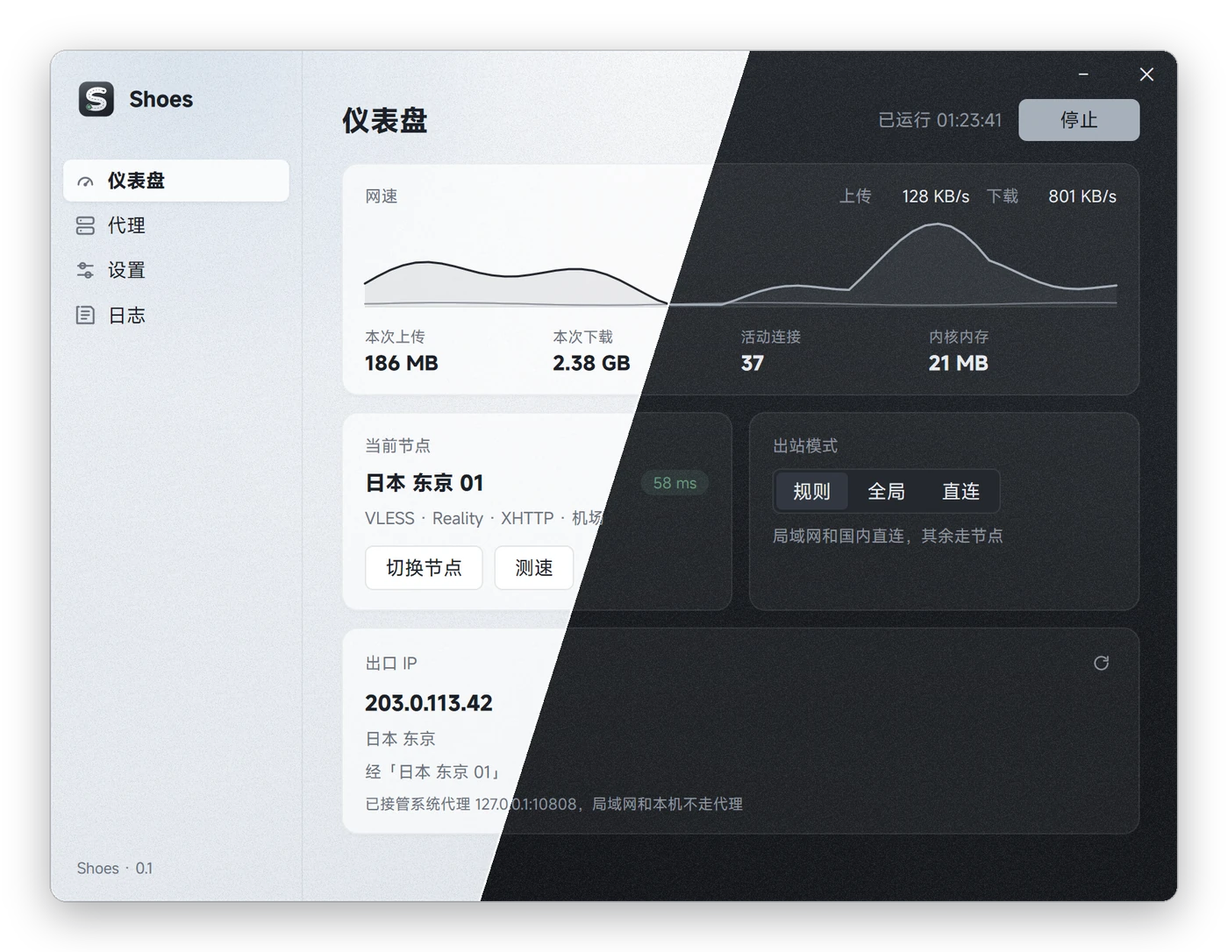
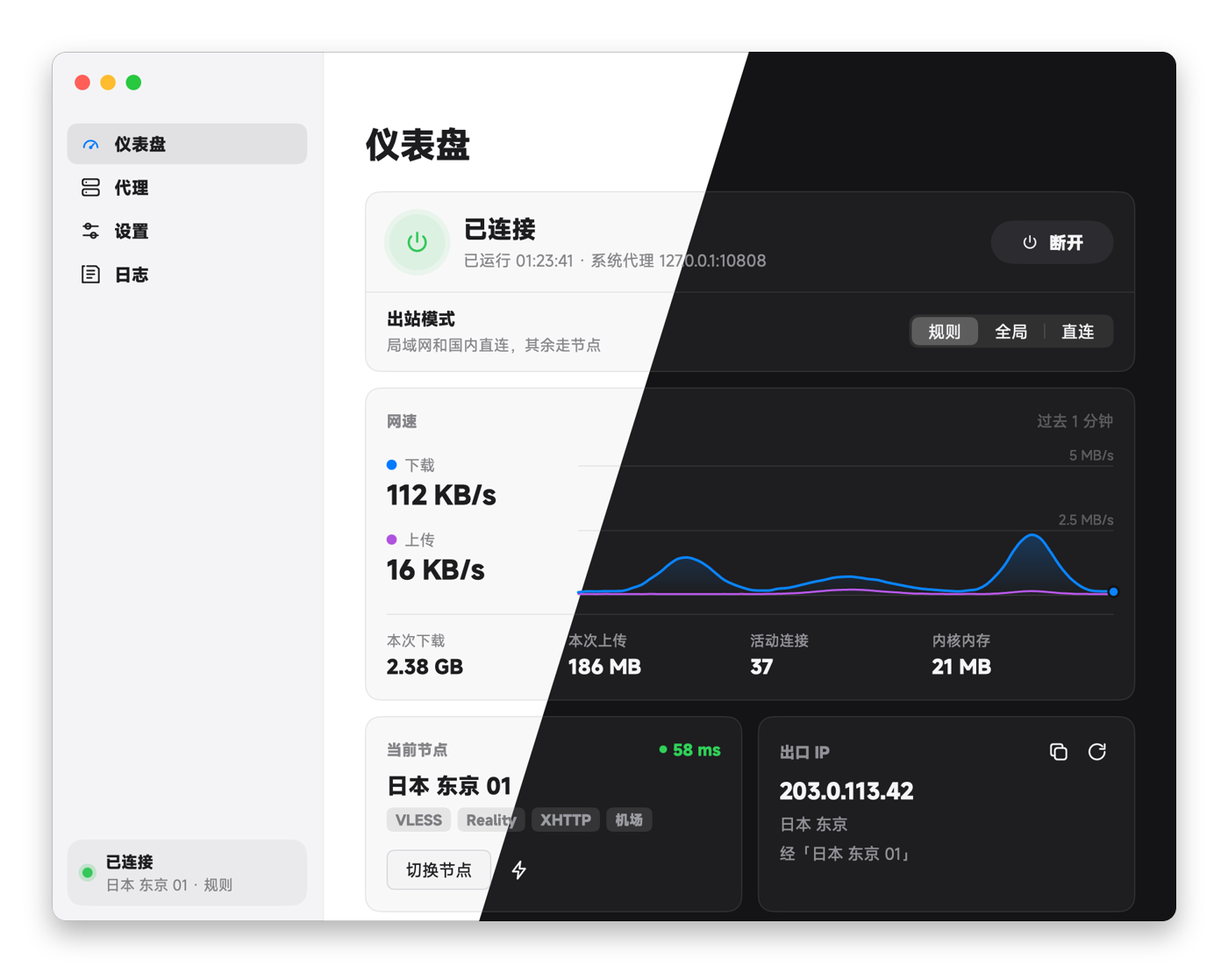
Shoes 0.4.0: the new interface
- Version 0.4.0 in mygo.json, the syso (regenerated with go-winres) and
  the subscription User-Agent (ShoesGUI/0.4).
- CHANGELOG: the 0.4.0 section; update notes now live under 设置 › 关于.
- The tray's 启动/停止 is now 连接/断开, as on the dashboard.
- README and 使用说明: the new dashboard, node list, group ⋯ menu,
  dialogs, connection records, settings groups, toasts, Esc and ⌘F on
  the log page; 已连接 instead of 运行中; screenshots redone from the
  new interface with made-up nodes (203.0.113.0/24).

diff --git a/work/import.go b/work/import.go
@@ -58,7 +58,7 @@ func parseImport(text string) importResult {
 
 // subscriptionUA 机场面板按 User-Agent 决定回什么格式，不认得的多半当 Clash 回 YAML。
 // 我们解析的是 v2rayN 那种分享链接，所以照它的样子报；有的面板只看开头是不是 v2rayN，后缀放自己的名字
-const subscriptionUA = "v2rayN/7.13.8 ShoesGUI/0.3"
+const subscriptionUA = "v2rayN/7.13.8 ShoesGUI/0.4"
 
 // configFormat 认出整份配置文件（Clash YAML、JSON），这种不是链接列表，别把里面的网址当节点
 func configFormat(text string) string {

diff --git a/work/tray.go b/work/tray.go
@@ -31,9 +31,9 @@ func (a *application) createTray() {
 	tray.OnClick(a.showWindow)
 	tray.OnRightClick(func() {
 		_, _, _, proxy := a.engine.snapshot()
-		toggle := "启动"
+		toggle := "连接"
 		if proxy {
-			toggle = "停止"
+			toggle = "断开"
 		}
 		var modeItems []*mygo.MenuItem
 		for _, m := range modes {

diff --git a/outputs/使用说明.md b/outputs/使用说明.md
@@ -4,41 +4,47 @@ Windows：双击同目录的 ShoesGUI.exe，shoes.exe 保持放在旁边。
 
 macOS（Apple 芯片）：把 ShoesGUI 拖进「应用程序」再打开，内核已经打包在 app 里。app 没有 Apple 开发者签名，第一次打开会被系统拦下：到「系统设置 › 隐私与安全性」最下面点「仍要打开」，或者在终端运行 `xattr -dr com.apple.quarantine /Applications/ShoesGUI.app`。下文的 Ctrl 快捷键在 macOS 上都是 ⌘。
 
-1. 在「代理」页粘贴导入订阅或节点链接（也可以手动添加），点一下卡片就是选中。
-2. 回到「仪表盘」点右上角「启动」，Shoes 接管系统代理；点「停止」恢复原来的设置。启动/停止只有这一个按钮。
-3. 运行中也能随时换节点、换模式、编辑和导入，不用先停。换节点时默认断开现有连接，让浏览器立刻按新节点重连；不想打断下载和通话，可以在「设置 › 连接」关掉「切换节点时断开现有连接」，这样只有新连接走新节点。
+1. 在「代理」页粘贴导入订阅或节点链接（也可以手动添加），点一下那一行就是选中。
+2. 回到「仪表盘」，点最上面那张卡片右边的「连接」，Shoes 接管系统代理；点「断开」恢复原来的设置。托盘菜单里也是同一个开关。
+3. 连着的时候也能随时换节点、换模式、编辑和导入，不用先停。换节点时默认断开现有连接，让浏览器立刻按新节点重连；不想打断下载和通话，可以在「设置 › 连接」关掉「切换节点时断开现有连接」，这样只有新连接走新节点。
 
-内核随 Shoes 一起常驻，只监听本机。没点「启动」时也能测速，也能把 127.0.0.1:10808 手动填给其他应用。改了节点、端口或内核路径，内核会在后台重启，大约 0.2 秒，系统代理保持接管。
+内核随 Shoes 一起常驻，只监听本机。没点「连接」时也能测速，也能把 127.0.0.1:10808 手动填给其他应用。改了节点、端口或内核路径，内核会在后台重启，大约 0.2 秒，系统代理保持接管。
 
 出站模式：「规则」让局域网和国内（geosite/geoip cn）直连，其余走节点；「全局」除局域网外都走节点；「直连」全部不走节点。系统代理同时绕过 localhost、127.*、10.*、172.16–31.*、192.168.* 和不带点的本地名（macOS 上写成 localhost、127.0.0.0/8、*.local、10.0.0.0/8、172.16.0.0/12、192.168.0.0/16、169.254.0.0/16）。macOS 接管时改的是每个已启用网络服务的 HTTP / HTTPS 代理，并关掉自动代理（PAC），停止后还原。
 
-仪表盘：右上角是运行时长和启动/停止；启动失败时那行红字可以点，直接跳到日志。「网速」是内核每秒报的上传、下载速度，曲线是最近 60 秒，实线下载、淡线上传；下面「本次上传/下载」从打开 Shoes 算起，经过内核的都算（直连的也算），内核重启也接着累加；「活动连接」「内核内存」仪表盘开着时每 2 秒刷新一次。「当前节点」可以测速，「切换节点」会跳到这个节点所在的分组并滚到它。「出口 IP」只在接管了系统代理时查：经本地代理端口请求 ipwho.is（不通再试 ip-api.com），和浏览器走的是同一条分流，内核重启、换节点、换模式后自动重查，右上角 ↻ 手动重查；没接管时这里直接写「未接管系统代理」，因为那时浏览器是直连的。TUN 没有放出来，shoes 内核在 Windows 上不支持，macOS 版也一样没放。
+仪表盘：最上面一张卡片写着现在连没连上、连了多久，右边是「连接 / 断开」，下面一行切出站模式；启动失败时卡片上的「点这里看日志」直接跳到运行日志。「网速」左边是这一秒的下载、上传，右边是最近 60 秒的曲线，蓝色下载、紫色上传，刻度跟着最大值走，指针放上去能看那一秒的数；下面「本次下载/上传」从打开 Shoes 算起，经过内核的都算（直连的也算），内核重启也接着累加；「活动连接」「内核内存」每秒更新。「当前节点」旁边的闪电图标测这个节点的延迟，「切换节点」弹出同一分组里按延迟排好的节点（最多十个），点一个就换，最底下一行去代理页看全部。「出口 IP」只在接管了系统代理时查：经本地代理端口请求 ipwho.is（不通再试 ip-api.com），和浏览器走的是同一条分流，内核重启、换节点、换模式后自动重查，右上角 ↻ 手动重查，旁边可以复制 IP；没接管时这里直接写「未接管系统代理」，因为那时浏览器是直连的。TUN 没有放出来，shoes 内核在 Windows 上不支持，macOS 版也一样没放。
 
-测速：「代理」页右上角的闪电图标测当前分组（搜索过滤后的那些），点一下是「真连接延迟」，右键可以选「TCPing」。「真连接延迟」和 v2rayN 的同名功能一样：另起一个只用来测速的内核，每个节点一个本地入口，经入口用同一个连接连发两次 GET https://www.google.com/generate_204，取较小的那次（第二次已经握过手，基本是一个来回），两次都成功才算通，每个节点最多 5 秒。「TCPing」也和 v2rayN 一样，只计 TCP 连上服务器端口的时间，不走代理协议，通了不代表节点能用。卡片右键「测速 ›」可以单测一个，仪表盘「当前节点」卡片的「测速」测当前节点（真连接）。两种结果共用一个显示位置，后测的覆盖先测的，结果会存下来，重开 Shoes 还在。结果跟着节点配置（地址、协议、凭证）走，不跟名字走：改了节点配置就算没测过，删掉一个同名节点也不会让另一个接手它的数字；更新订阅（包括第一次导入订阅）后这一组的结果清空，和 v2rayN 一样要重新测。500 ms 以内绿色（和 v2rayN 的分界一样），1000 ms 以内黄色，更慢或超时红色。搜索框旁边选「按延迟」就按快慢排（没测的在后，超时的最后，测速进行中顺序先不动），「用最快的」直接切到这一组里测出来最快的节点。测速不经过系统代理，不影响正在用的连接，没点「启动」也能测。
+侧栏底部一直显示连接状态和正在用的节点，哪一页都看得到，点它回到仪表盘。
 
-关闭窗口会缩到托盘，第一次关的时候会弹一条系统通知说明。左键托盘图标打开窗口，右键可启动/停止、切节点（按分组，带上次测的延迟）、切模式、退出；图标绿色表示已接管系统代理。再次双击 ShoesGUI.exe 会把已经在跑的窗口叫出来。macOS 上托盘图标在顶部菜单栏；⌘Q 或程序坞里的「退出」会真的退出，并恢复系统代理。「设置」里的改动都是即时保存的：主题（跟随系统、浅色、深色）、「开机时启动 Shoes」（登录后在托盘待命，不会自己接管代理）、「打开时自动接管系统代理」（两个都开，登录后就直接可用）；本地端口按回车或点别处就保存，不合法会在下面说原因；内核路径在「高级」里，一般会自动找到，选了文件就保存。
+测速：「代理」页右上角的闪电图标测当前分组（搜索过滤后的那些），点一下是「真连接延迟」，右键可以选「TCPing」。「真连接延迟」和 v2rayN 的同名功能一样：另起一个只用来测速的内核，每个节点一个本地入口，经入口用同一个连接连发两次 GET https://www.google.com/generate_204，取较小的那次（第二次已经握过手，基本是一个来回），两次都成功才算通，每个节点最多 5 秒。「TCPing」也和 v2rayN 一样，只计 TCP 连上服务器端口的时间，不走代理协议，通了不代表节点能用。节点右键或「⋯」里的「测速 ›」可以单测一个，仪表盘「当前节点」旁边的闪电图标测当前节点（真连接）。测速进行中，延迟那一格是一明一暗的灰条。两种结果共用一个显示位置，后测的覆盖先测的，结果会存下来，重开 Shoes 还在。结果跟着节点配置（地址、协议、凭证）走，不跟名字走：改了节点配置就算没测过，删掉一个同名节点也不会让另一个接手它的数字；更新订阅（包括第一次导入订阅）后这一组的结果清空，和 v2rayN 一样要重新测。500 ms 以内绿色（和 v2rayN 的分界一样），1000 ms 以内橙色，更慢或超时红色。搜索框旁边选「按延迟」就按快慢排（没测的在后，超时的最后，测速进行中顺序先不动），「用最快的」直接切到这一组里测出来最快的节点。测速不经过系统代理，不影响正在用的连接，没点「连接」也能测。
 
-更新：「设置 › 更新」可以检查新版本，默认打开时和之后每 12 小时也会自己查一次（只提示，不会自己装，可以关掉）。有新版本时侧栏底部会提示，点「更新并重启」就下载、校验签名、替换，再自己重新打开；更新前接管着系统代理的话，重新打开后接着接管。下载经 Shoes 自己的内核走，节点不通再直连；通常只下载变了的部分，内核也一起更新。要能更新，Shoes 得放在自己能写的地方：macOS 拖进「应用程序」，Windows 解压到自己的文件夹，不要放在 Program Files。
+关闭窗口会缩到托盘，第一次关的时候会弹一条系统通知说明。左键托盘图标打开窗口，右键可连接/断开、切节点（按分组，带上次测的延迟）、切模式、退出；图标绿色表示已接管系统代理。再次双击 ShoesGUI.exe 会把已经在跑的窗口叫出来。macOS 上托盘图标在顶部菜单栏；⌘Q 或程序坞里的「退出」会真的退出，并恢复系统代理。「设置」分成通用、连接、高级、关于四组，改动都是即时保存的：外观（跟随系统、浅色、深色）、「开机时启动 Shoes」（登录后在托盘待命，不会自己接管代理）、「打开时自动接管系统代理」（两个都开，登录后就直接可用）；本地端口按回车或点别处就保存，不合法会在下面说原因；内核路径在「高级」里，一般会自动找到，要换就点「更改…」选文件，选了就保存。版本和更新在「关于」里。
 
-「日志」最新的在最上面，包含内核的警告和错误，报错标红。可以搜索，可以选中一段复制，「复制」把当前显示的日志整个复制下来（方便发给别人看），「清空」清掉已有的。内核意外退出时会自动恢复系统代理，并把退出原因写进日志。单条连接没正常收尾的报错（浏览器关了页面、换节点时断开旧连接、对方重置连接、TLS 断开没打招呼等）会翻成人话，同样的原因一分钟内合并成一行「连接异常 ×N：原因」；它们只影响那一条连接，网页能正常打开就不用管，成片出现并且网页打不开时再去测速换节点。默认是「只看重要」，这类连接异常藏起来，顶上说一句藏了多少；切到「全部」能看到。内核日志写在数据目录（Windows 是 %APPDATA%/ShoesGUI，macOS 是 ~/Library/Application Support/ShoesGUI）的临时文件里再读进来（内核写管道时会把中文系统错误变成问号），内核退出后文件自动删除。
+更新：「设置 › 关于」可以检查新版本，默认打开时和之后每 12 小时也会自己查一次（只提示，不会自己装，可以关掉）。有新版本时侧栏底部会提示，点「更新并重启」就下载、校验签名、替换，再自己重新打开；更新前接管着系统代理的话，重新打开后接着接管。下载经 Shoes 自己的内核走，节点不通再直连；通常只下载变了的部分，内核也一起更新。要能更新，Shoes 得放在自己能写的地方：macOS 拖进「应用程序」，Windows 解压到自己的文件夹，不要放在 Program Files。
 
-提示和报错显示在窗口最下面一行，列表滚到哪都看得见，右边 ✕ 可以关掉；报错换页就清掉。
+「日志」页分两块，标题右边切换。
+
+「连接记录」像 v2rayN 的连接页：一个域名一行，标着走的是「代理」还是「直连」、命中哪条规则（国内域名、国内 IP、局域网、其余）、端口、经过哪个节点、连了几次（还开着的打绿点）、上下行流量和最近一次的时间。同一个域名换了走法（比如切到全局）另起一行。可以只看代理或只看直连，可以按域名或节点搜（在这一页按 Ctrl+F），右键一行能复制域名、只看这个域名，或断开它还开着的连接，「⋯」里能断开所有连接，垃圾桶清空记录。Shoes 每秒问一次内核哪些连接开着，开了不到一秒就关掉的可能记不上；内核不报是哪个程序发起的连接。记录只放在内存里，最多一千行，退出 Shoes 就没了。没接管系统代理时，只有自己设了代理的程序会出现在这里。
+
+「运行日志」最新的在最上面，一行一条，前面是时间，包含内核的警告和错误，报错是红点红字。可以搜索，可以选中一段复制，「复制」把当前显示的日志整个复制下来（方便发给别人看），「清空」清掉已有的。内核意外退出时会自动恢复系统代理，并把退出原因写进日志。单条连接没正常收尾的报错（浏览器关了页面、换节点时断开旧连接、对方重置连接、TLS 断开没打招呼等）会翻成人话，同样的原因一分钟内合并成一行「连接异常 ×N：原因」，前面打橙点；它们只影响那一条连接，网页能正常打开就不用管，成片出现并且网页打不开时再去测速换节点。默认是「只看重要」，这类连接异常藏起来，顶上说一句藏了多少；切到「全部」能看到。内核日志写在数据目录（Windows 是 %APPDATA%/ShoesGUI，macOS 是 ~/Library/Application Support/ShoesGUI）的临时文件里再读进来（内核写管道时会把中文系统错误变成问号），内核退出后文件自动删除。
+
+成功一类的提示（已复制、已导入之类）在窗口底部弹出来，几秒后自己消失；报错留在窗口最下面一行，列表滚到哪都看得见，右边 ✕ 可以关掉，换页就清掉。
 
 支持 SOCKS5、HTTP、Shadowsocks AEAD/2022、Trojan、VLESS、VMess、AnyTLS，以及 TLS、Reality、Vision、WebSocket、XHTTP 和 VLESS 原生加密。
 
 ## 粘贴导入
 
-在「代理」页点右上角剪贴板图标（或在代理页按 Ctrl+V）。剪贴板里是节点链接、Base64 订阅内容或订阅地址时会自动填进来；别的内容（比如刚复制的密码）不会填，已经导入过的（刚导过的、已经绑了分组的订阅、链接全都在的）也不会再填。停下输入后自动识别，下面列出识别到的节点和没认出来的原因；选好「导入到」哪个分组，点「导入」才会真的导入。支持单条或批量分享链接、Base64 订阅内容，以及返回上述内容的 HTTP/HTTPS 订阅地址。相同连接参数自动去重。读订阅时 User-Agent 报的是 `v2rayN/7.13.8 ShoesGUI/0.3`：很多机场按 UA 决定回什么格式，不认得的就回 Clash YAML，报成 v2rayN 才回分享链接。粘贴进来的是一整份 Clash YAML 或 JSON 配置时会直接说不支持，不会把里面的 DNS、规则网址当成节点。
+在「代理」页点右上角剪贴板图标（或在代理页按 Ctrl+V）。剪贴板里是节点链接、Base64 订阅内容或订阅地址时会自动填进来；别的内容（比如刚复制的密码）不会填，已经导入过的（刚导过的、已经绑了分组的订阅、链接全都在的）也不会再填。停下输入后自动识别，下面列出识别到的节点和没认出来的原因；选好「导入到」哪个分组，点「导入」才会真的导入；左上角的返回或 Esc 回到节点列表。支持单条或批量分享链接、Base64 订阅内容，以及返回上述内容的 HTTP/HTTPS 订阅地址。相同连接参数自动去重。读订阅时 User-Agent 报的是 `v2rayN/7.13.8 ShoesGUI/0.4`：很多机场按 UA 决定回什么格式，不认得的就回 Clash YAML，报成 v2rayN 才回分享链接。粘贴进来的是一整份 Clash YAML 或 JSON 配置时会直接说不支持，不会把里面的 DNS、规则网址当成节点。
 
-订阅地址导入到一个空分组（或新建的分组）时，这个分组就记住了订阅：分组上方显示订阅域名和「更新订阅」按钮。更新时同名节点就地换成新配置，新节点加到后面，订阅里已经没有的删掉；手动加进或挪进这个分组的节点不会被动。同一个订阅再粘贴导入一次也是更新，不会把换了密码的节点再加一份。要导去的分组里已经有别的节点时，会建议新建一个以订阅域名命名的分组，这样以后才能一键更新。订阅分组整份由订阅管，不跟别的分组去重：同一家机场以前手动导过一份，两组会各有一份，旧的那组不要了就右键删掉。订阅不会定时自动更新。
+订阅地址导入到一个空分组（或新建的分组）时，这个分组就记住了订阅：选中这个分组时，分组下面一行显示订阅域名、「分享订阅」和「更新订阅」，分组的「⋯」里也有。更新时同名节点就地换成新配置，新节点加到后面，订阅里已经没有的删掉；手动加进或挪进这个分组的节点不会被动。同一个订阅再粘贴导入一次也是更新，不会把换了密码的节点再加一份。要导去的分组里已经有别的节点时，会建议新建一个以订阅域名命名的分组，这样以后才能一键更新。订阅分组整份由订阅管，不跟别的分组去重：同一家机场以前手动导过一份，两组会各有一份，旧的那组不要了就右键删掉。订阅不会定时自动更新。
 
-「代理」页上方是搜索框（Ctrl+F）、排序和「用最快的」，下面是分组和数量。分组按建的先后排，「未分组」在最后；右键分组可以重命名或删除（删除时可以选节点挪到未分组，还是连节点一起删）。列表根据窗口宽度自动排成一列、两列或更多列；点击节点即可选中，悬停显示完整地址，右侧「⋯」平时淡淡显示，点开或右键卡片是「分享节点 / 编辑 / 测速 › / 移至分组 › / 删除」。删除的确认就出现在那张卡片上；删的是正在用的节点时，会在底部说明改用了哪个。手动添加节点（Ctrl+N）不会自动选中它，只有第一个节点会自动用上。编辑节点时密码和 UUID 默认遮住，旁边「显示」可以核对；公钥、Short ID 这些不是秘密，直接显示。
+「代理」页上方是搜索框（Ctrl+F）、排序和「用最快的」，下面是分组和数量。分组按建的先后排，「未分组」在最后；「+」新建分组，右键自己建的分组可以重命名或删除，最后的「⋯」是当前分组的操作（导出当前分组、更新和分享订阅、重命名、删除），删除时弹窗问是把节点挪到未分组还是连节点一起删。节点一行一个：序号、名字和协议、分组（看「全部」时才有这一列）、延迟；正在用的那一行打勾、字是蓝色。点一行就选中，悬停显示完整地址，右侧「⋯」悬停时出现，点开或右键那一行是「分享节点 / 编辑 / 测速 › / 移至分组 › / 删除」。删除先弹窗确认；删的是正在用的节点时，会提示改用了哪个。列表只画看得见的那些行，几百个节点滚起来也不卡。手动添加节点（Ctrl+N）不会自动选中它，只有第一个节点会自动用上。编辑节点时密码和 UUID 默认遮住，旁边「显示」可以核对；公钥、Short ID 这些不是秘密，直接显示。编辑、导入、分享页左上角有返回，按 Esc 也能回到列表。
 
 HY2 原生测试版需要随附的修改版 shoes 内核，支持 hy2:// / hysteria2:// 导入、SNI、密码、SHA256 证书固定、分享和真连接测速，不启动额外客户端。编辑中可设置下载带宽（导入默认 100 Mbps，0 为自动）；无指纹的跳过证书验证会拒绝，指纹留空时验证可信证书。HY2 传输本身使用 UDP，但此版本仅转发 TCP 应用流量，TCPing 会跳过 HY2。
 
 暂不支持 Clash YAML、gRPC、SS 插件、WebSocket Early Data、UDP 应用/TUN、TUIC，以及 HY2 混淆和端口跳跃；这些链接会提示不支持，不会静默降级。浏览器指纹名称会保留，但握手使用 Shoes 原生实现，不模拟 Chrome/Edge/Safari。
 
-「运行中」表示已接管系统代理，不代表当前节点一定可达，可达不可达看测速。
+「已连接」表示已接管系统代理，不代表当前节点一定可达，可达不可达看测速；某个网站打不开，就去「日志 › 连接记录」搜它的域名，看它走的是直连还是哪个节点。
 
 节点配置保存在当前账户的 %APPDATA%/ShoesGUI，由 Windows DPAPI 加密；macOS 版保存在 ~/Library/Application Support/ShoesGUI，用 AES-256-GCM 加密，密钥放在登录钥匙串里。
 
@@ -46,7 +52,7 @@ HY2 原生测试版需要随附的修改版 shoes 内核，支持 hy2:// / hyste
 
 手机打开 Shadowrocket 的扫一扫，扫描「代理」页节点右键或 `⋯ → 分享节点` 中的二维码。也可以「复制链接」发给别人，或「保存二维码」为 PNG。二维码本地生成，不上传到第三方。
 
-选好分组后点「导出当前分组」，可以复制多条链接或导出 TXT（一行一个节点）。「全部」会导出所有节点，「未分组」只导出未分组节点，搜索不会改变导出范围。节点导出是当前快照，不会自动更新。
+选好分组后点分组旁边的「⋯ → 导出当前分组」，可以复制多条链接或导出 TXT（一行一个节点）。「全部」会导出所有节点，「未分组」只导出未分组节点，搜索不会改变导出范围。节点导出是当前快照，不会自动更新。
 
 绑定了订阅的分组会单独显示「分享订阅」：分享的是原订阅地址，对方导入后可以更新。它可能授予对方整个账号的节点和流量权限，与只分享一个节点不同。
 

diff --git a/CHANGELOG.md b/CHANGELOG.md
@@ -1,6 +1,17 @@
 # 更新记录
 
-应用里「设置 › 更新」显示的说明来自这里对应版本的一节；发版前先写好，`mygo build` 找不到这一节会停下。
+应用里「设置 › 关于」显示的说明来自这里对应版本的一节；发版前先写好，`mygo build` 找不到这一节会停下。
+
+## 0.4.0
+
+- 界面重做，照 MySpotify 的样子：侧栏加纯色内容区。macOS 上红绿灯放进侧栏、侧栏是系统的毛玻璃；Windows 用系统自己的最小化和关闭按钮。侧栏底部随时看得到连没连上、用的哪个节点
+- 仪表盘：最上面一张连接卡，连接 / 断开、连了多久、出站模式都在这。网速图重画成平滑曲线，带刻度，指针放上去看那一秒的上下行。「切换节点」直接弹出同一分组里按延迟排好的节点，点一下就换
+- 代理：节点改成一行一个的列表，几百个也不卡。分组改成胶囊，导出、订阅、改名、删除收进「⋯」；删节点、删分组都先弹窗确认。编辑、导入、分享页左上角有返回，Esc 也行
+- 日志：新增「连接记录」，像 v2rayN 一样看每个域名走的是直连还是哪个节点、命中哪条规则、连了几次、多少流量，能筛选、搜索、断开；只记在内存里。运行日志一行一条，前面是时间
+- 设置分成通用、连接、高级、关于四组，更新挪进「关于」；内核路径只显示一行，要换点「更改…」
+- 成功的提示几秒后自己消失，报错还留在窗口底部
+- 托盘菜单的「启动 / 停止」改叫「连接 / 断开」，和仪表盘一致
+- 默认窗口大一点（880×680）
 
 ## 0.3.1
 
